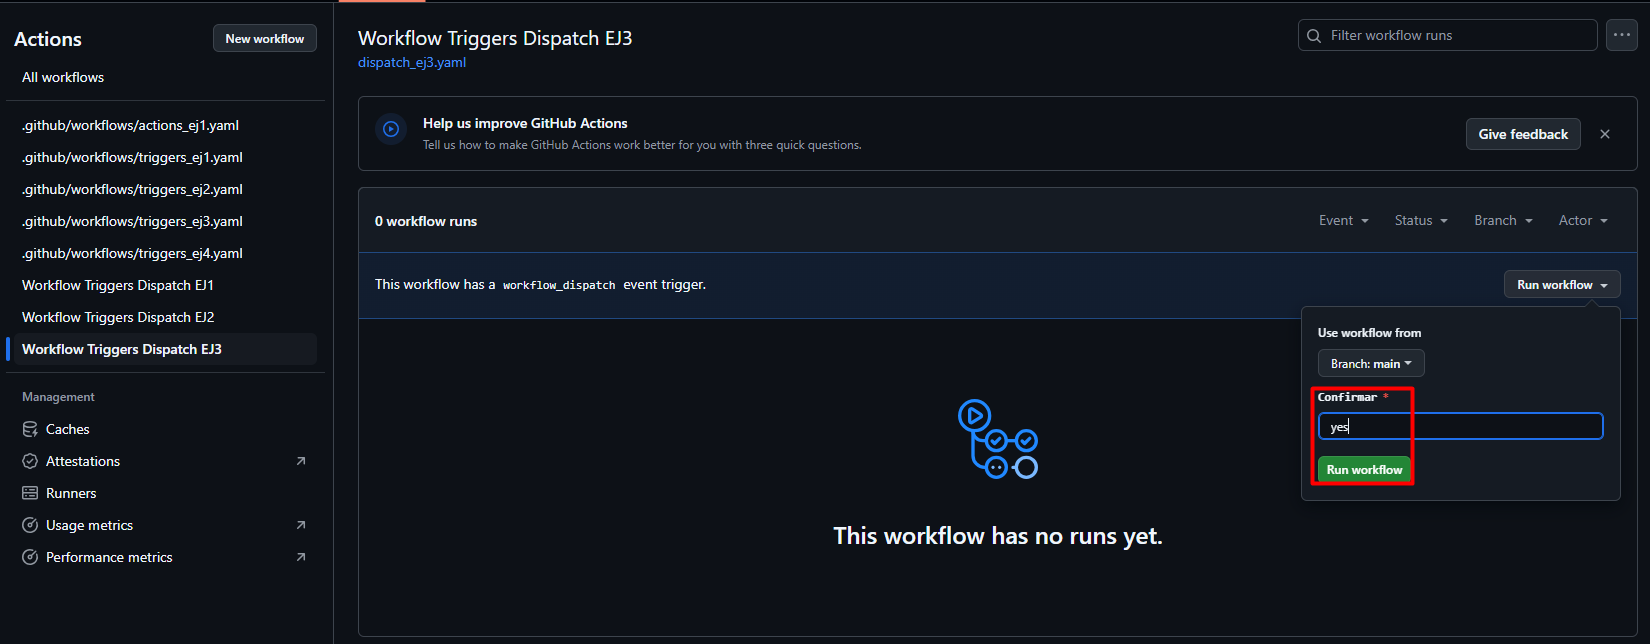
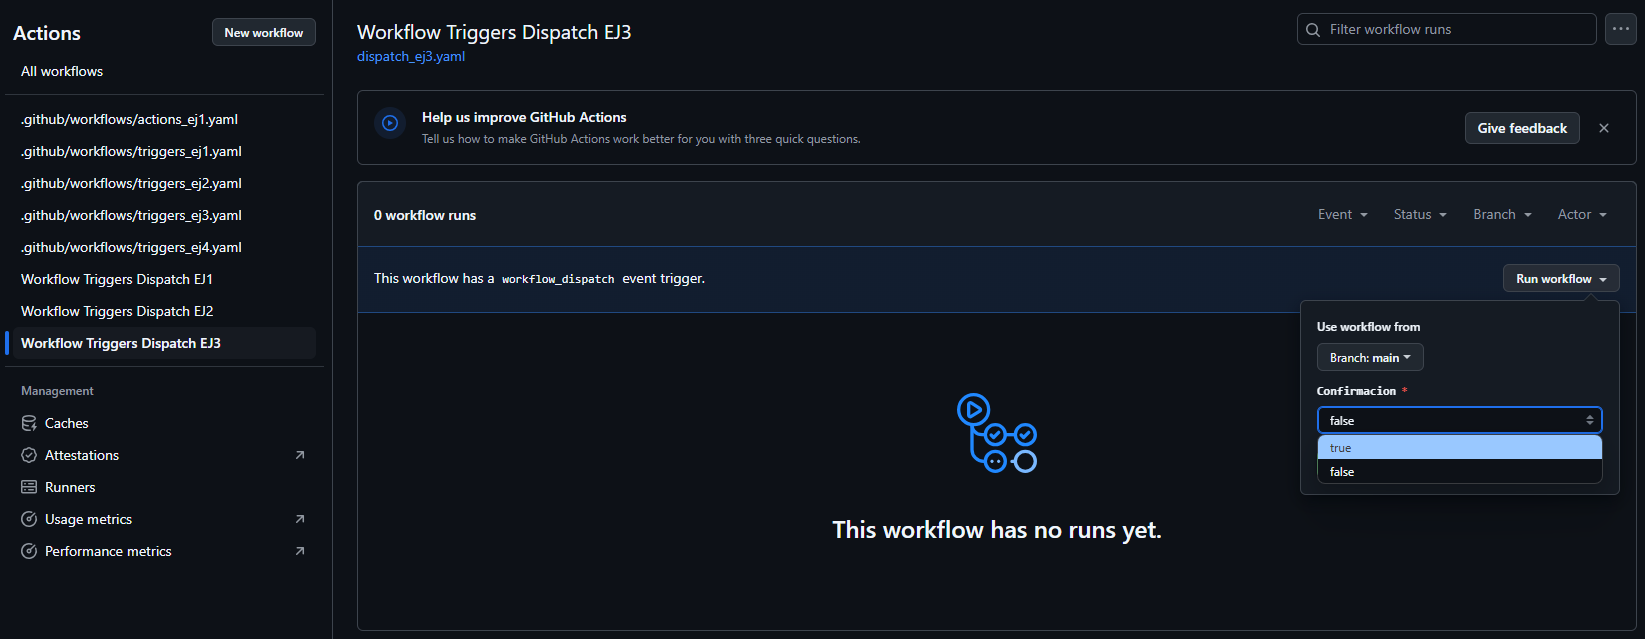
jobs ej1 wip

diff --git a/soluciones/triggers/dispatch/ejercicio3.md b/soluciones/triggers/dispatch/ejercicio3.md
@@ -1,0 +1,42 @@
+# Triggers (Dispatch) - Ejercicio 2
+
+## 1. Configura un workflow para que se ejecute manualmente usando el evento workflow_dispatch.
+
+Crear el workflow:
+
+![](../../../datos/trigger_dispatch_ej3_foto1.png)
+
+## 2. Define un input llamado _"confirm"_ que requiera una _confirmación_ ("true" o "false").
+
+Creo el input llamado `confirm` con elección entre true y false:
+
+```yaml
+inputs:
+    confirm:
+        description: 'Confirmacion'
+        required: true
+        default: 'false'
+        type: choice
+        options:
+            - 'true'
+            - 'false'
+```
+
+## 3. Imprime un mensaje, dependiendo de si la confirmación es positiva o negativa.
+
+Imprimir el mensaje:
+
+```yaml
+jobs:
+  print-tag:
+    runs-on: labs-runner
+    steps:
+      - name: Llamar al input
+        run: echo La confirmacion es = ${{ github.event.inputs.confirm }}
+```
+
+Comprobar si funciona:
+
+![](../../../datos/trigger_dispatch_ej3_foto2.png)
+
+![](../../../datos/trigger_dispatch_ej3_foto3.png)

diff --git a/soluciones/jobs/ejercicio1.md b/soluciones/jobs/ejercicio1.md
@@ -1,0 +1,8 @@
+# Jobs y Steps - Ejercicio 1
+
+## Configura un workflow (workflow_dispatch) con un solo job que haga las siguientes tareas:
+
+- Mostrar la fecha y hora actual.
+- Crear un archivo de texto.
+- Listar los archivos en el directorio actual.
+- Hacer un commit y push de cualquier fichero en el repositorio.

diff --git a/soluciones/jobs/ejercicio2.md b/soluciones/jobs/ejercicio2.md
@@ -1,0 +1,6 @@
+# Jobs y Steps - Ejercicio 2
+
+## 1. Configura dos jobs en un único workflow: "build" y "deploy"
+- En el job deploy imprime un mensaje por la consola.
+- El job deploy debe depender del éxito del job build.
+- Si el job "build" falla, el job "deploy" **no debe ejecutarse.**

diff --git a/soluciones/jobs/ejercicio4.md b/soluciones/jobs/ejercicio4.md
@@ -1,0 +1,7 @@
+# Jobs - Ejercicio 4
+
+## 1. Crea un job el cual cree un archivo .txt llamado "test"
+
+## 2. Crea otro job que mueva el archivo creado anteriormente a otro directorio. ¿Qué es lo que ocurre?
+
+### ¿Qué ocurre?

diff --git a/soluciones/jobs/ejercicio3.md b/soluciones/jobs/ejercicio3.md
@@ -1,0 +1,3 @@
+# Jobs y Steps - Ejercicio 3
+
+## Configura un workflow que ejecute el mismo job en diferentes sistemas operativos
